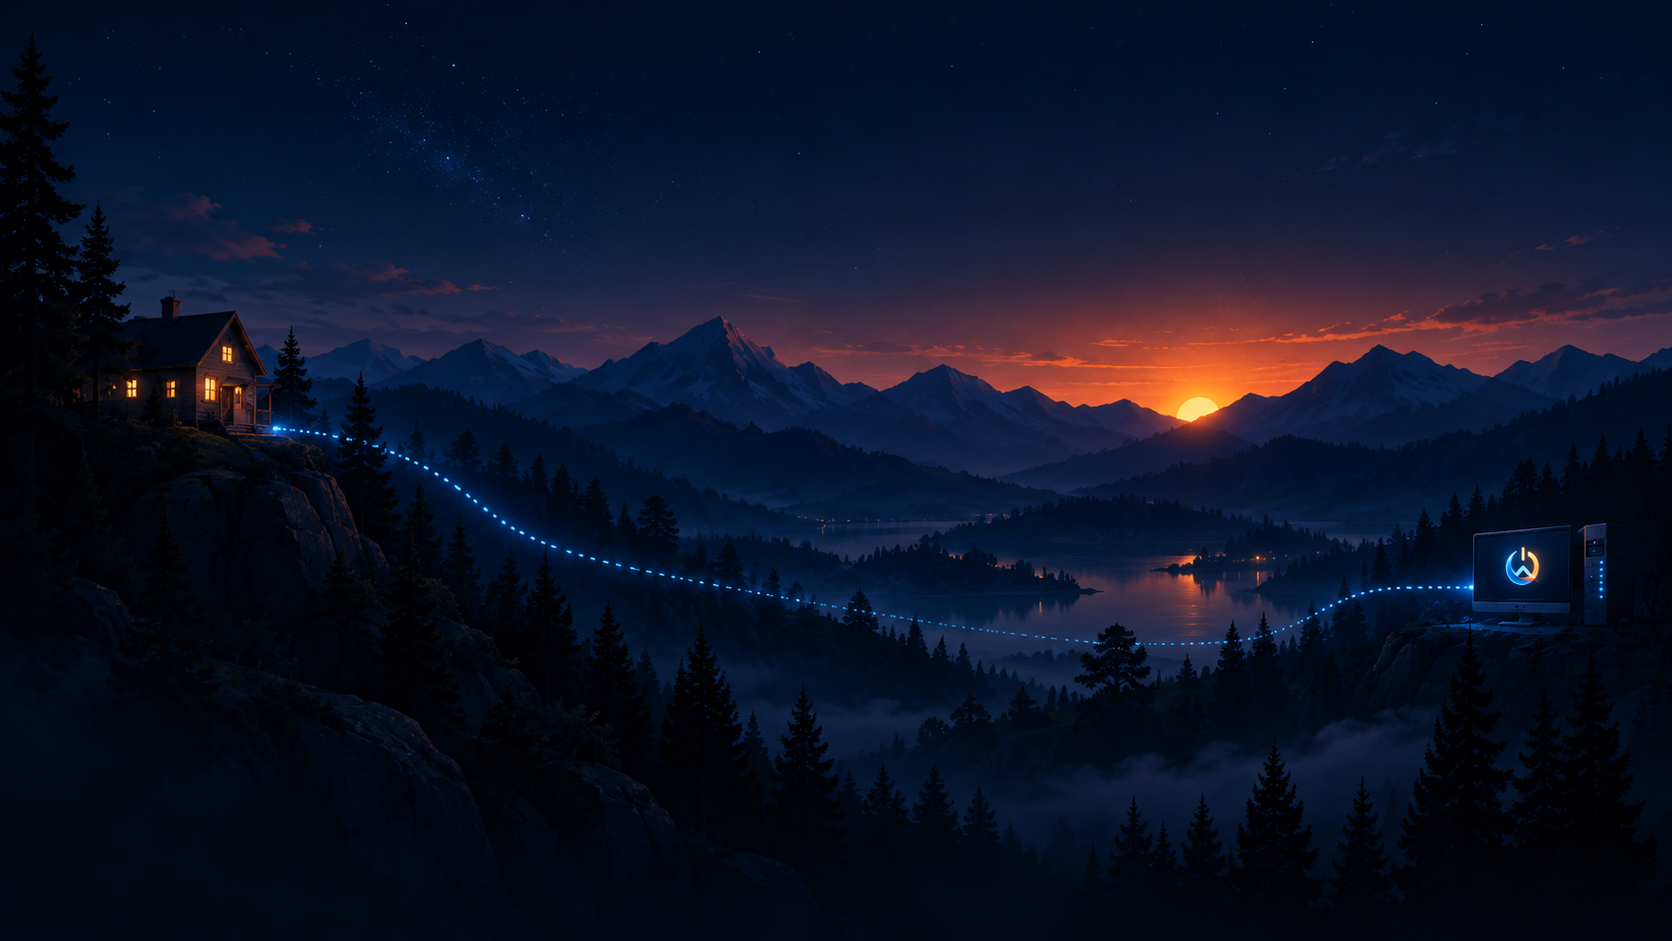
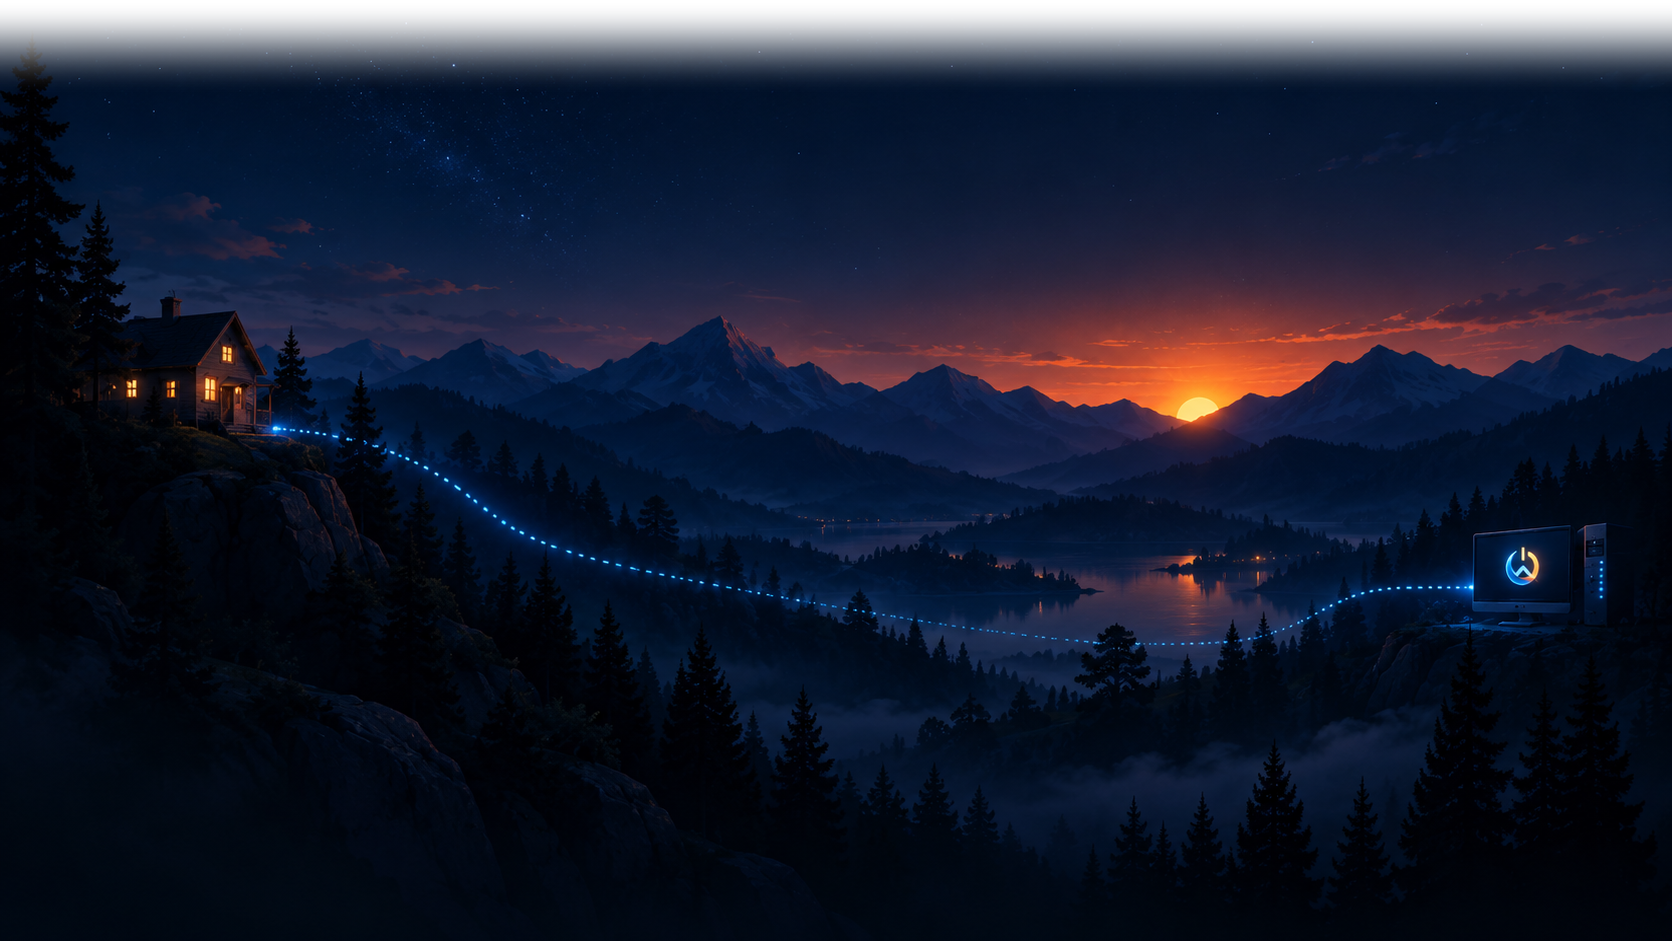
fix(ui): fit branding within Android chrome

Changed region(s): [[0.0, 0.0, 1.0, 0.0925]]

diff --git a/crates/waker-app/src/lib.rs b/crates/waker-app/src/lib.rs
@@ -72,6 +72,8 @@ pub struct WakerApp {
     clipboard_status: Option<Result<(), String>>,
     #[cfg(target_os = "android")]
     android_app: Option<winit::platform::android::activity::AndroidApp>,
+    #[cfg(target_os = "android")]
+    android_system_insets: Option<AndroidSystemInsets>,
 }
 
 impl Default for WakerApp {
@@ -114,6 +116,8 @@ impl WakerApp {
             clipboard_status: None,
             #[cfg(target_os = "android")]
             android_app: None,
+            #[cfg(target_os = "android")]
+            android_system_insets: None,
         }
     }
 
@@ -149,48 +153,49 @@ impl WakerApp {
         let Some(branding) = &self.branding else {
             return;
         };
-        let rect = ui.max_rect();
+
+        // Fill the panel width while preserving the artwork's aspect ratio, then
+        // anchor it to the bottom. Any unused height remains plain panel fill.
+        let panel_rect = ui.max_rect().expand(8.0);
         let image_size = branding.background.size_vec2();
-        let target_size = rect.size();
-        if image_size.x <= 0.0
-            || image_size.y <= 0.0
-            || target_size.x <= 0.0
-            || target_size.y <= 0.0
-        {
+        if image_size.x <= 0.0 || image_size.y <= 0.0 || panel_rect.width() <= 0.0 {
             return;
         }
 
-        let image_aspect = image_size.x / image_size.y;
-        let target_aspect = target_size.x / target_size.y;
-        let uv = if image_aspect > target_aspect {
-            let visible = target_aspect / image_aspect;
-            let margin = (1.0 - visible) / 2.0;
-            egui::Rect::from_min_max(egui::pos2(margin, 0.0), egui::pos2(1.0 - margin, 1.0))
-        } else {
-            let visible = image_aspect / target_aspect;
-            let margin = (1.0 - visible) / 2.0;
-            egui::Rect::from_min_max(egui::pos2(0.0, margin), egui::pos2(1.0, 1.0 - margin))
-        };
+        let scale = panel_rect.width() / image_size.x;
+        let draw_size = image_size * scale;
+        let draw_rect = egui::Rect::from_min_size(
+            egui::pos2(panel_rect.left(), panel_rect.bottom() - draw_size.y),
+            draw_size,
+        );
 
         ui.painter().image(
             branding.background.id(),
-            rect,
-            uv,
+            draw_rect,
+            egui::Rect::from_min_max(egui::Pos2::ZERO, egui::pos2(1.0, 1.0)),
             egui::Color32::from_white_alpha(56),
         );
     }
 
     fn render_branding_logo(&self, ui: &mut egui::Ui) {
+        const LOGO_MARGIN: f32 = 16.0;
         let Some(branding) = &self.branding else {
             ui.heading(APP_NAME);
             return;
         };
         let source_size = branding.logo.size_vec2();
-        let width = ui.available_width().min(300.0);
+        let available_width = (ui.available_width() - 2.0 * LOGO_MARGIN).max(0.0);
+        let width = available_width.min(300.0);
+        if source_size.x <= 0.0 || source_size.y <= 0.0 || width <= 0.0 {
+            return;
+        }
+
         let height = width * source_size.y / source_size.x;
+        ui.add_space(LOGO_MARGIN);
         ui.add(
             egui::Image::from_texture(&branding.logo).fit_to_exact_size(egui::vec2(width, height)),
         );
+        ui.add_space(LOGO_MARGIN);
     }
 
     fn begin_wake(&mut self, ctx: &egui::Context) {
@@ -703,6 +708,100 @@ fn friendly_failure_message(failure: &WakeFailure) -> &'static str {
 }
 
 #[cfg(target_os = "android")]
+#[derive(Clone, Copy, Debug, Default, PartialEq, Eq)]
+struct AndroidSystemInsets {
+    left: i32,
+    top: i32,
+    right: i32,
+    bottom: i32,
+}
+
+#[cfg(target_os = "android")]
+#[allow(unsafe_code)]
+fn android_system_window_insets(
+    app: &winit::platform::android::activity::AndroidApp,
+) -> Result<Option<AndroidSystemInsets>, String> {
+    use jni::{JavaVM, jni_sig, jni_str, objects::JObject};
+
+    let vm = unsafe { JavaVM::from_raw(app.vm_as_ptr().cast()) };
+    let activity_raw = app.activity_as_ptr() as jni::sys::jobject;
+
+    vm.attach_current_thread(|env| -> jni::errors::Result<Option<AndroidSystemInsets>> {
+        let activity = unsafe { env.as_cast_raw::<JObject>(&activity_raw)? };
+        let window = env
+            .call_method(
+                &activity,
+                jni_str!("getWindow"),
+                jni_sig!("()Landroid/view/Window;"),
+                &[],
+            )?
+            .l()?;
+        let decor = env
+            .call_method(
+                &window,
+                jni_str!("getDecorView"),
+                jni_sig!("()Landroid/view/View;"),
+                &[],
+            )?
+            .l()?;
+        let insets = env
+            .call_method(
+                &decor,
+                jni_str!("getRootWindowInsets"),
+                jni_sig!("()Landroid/view/WindowInsets;"),
+                &[],
+            )?
+            .l()?;
+        if insets.is_null() {
+            return Ok(None);
+        }
+
+        // These accessors are available throughout Waker's supported Android range
+        // (API 24+) and remain equivalent to the system-bars inset for this purpose.
+        let left = env
+            .call_method(
+                &insets,
+                jni_str!("getSystemWindowInsetLeft"),
+                jni_sig!("()I"),
+                &[],
+            )?
+            .i()?;
+        let top = env
+            .call_method(
+                &insets,
+                jni_str!("getSystemWindowInsetTop"),
+                jni_sig!("()I"),
+                &[],
+            )?
+            .i()?;
+        let right = env
+            .call_method(
+                &insets,
+                jni_str!("getSystemWindowInsetRight"),
+                jni_sig!("()I"),
+                &[],
+            )?
+            .i()?;
+        let bottom = env
+            .call_method(
+                &insets,
+                jni_str!("getSystemWindowInsetBottom"),
+                jni_sig!("()I"),
+                &[],
+            )?
+            .i()?;
+
+        Ok(Some(AndroidSystemInsets {
+            left,
+            top,
+            right,
+            bottom,
+        }))
+    })
+    .map_err(|error| error.to_string())
+}
+
+#[cfg(target_os = "android")]
 #[allow(unsafe_code)]
 fn android_copy_text(
     app: &winit::platform::android::activity::AndroidApp,
@@ -752,53 +851,125 @@ fn android_copy_text(
 }
 
 impl eframe::App for WakerApp {
+    #[cfg(target_os = "android")]
+    fn raw_input_hook(&mut self, ctx: &egui::Context, raw_input: &mut egui::RawInput) {
+        let Some(android_app) = &self.android_app else {
+            return;
+        };
+        let Ok(Some(insets)) = android_system_window_insets(android_app) else {
+            return;
+        };
+
+        if self.android_system_insets != Some(insets) {
+            info!(
+                left = insets.left,
+                top = insets.top,
+                right = insets.right,
+                bottom = insets.bottom,
+                "Android system-bar insets changed"
+            );
+            self.android_system_insets = Some(insets);
+        }
+
+        let native_pixels_per_point = raw_input
+            .viewports
+            .get(&raw_input.viewport_id)
+            .and_then(|viewport| viewport.native_pixels_per_point)
+            .unwrap_or(1.0);
+        let pixels_per_point = native_pixels_per_point * ctx.zoom_factor();
+        if pixels_per_point <= 0.0 {
+            return;
+        }
+
+        raw_input.safe_area_insets = Some(egui::SafeAreaInsets(egui::epaint::MarginF32 {
+            left: insets.left.max(0) as f32 / pixels_per_point,
+            top: insets.top.max(0) as f32 / pixels_per_point,
+            right: insets.right.max(0) as f32 / pixels_per_point,
+            bottom: insets.bottom.max(0) as f32 / pixels_per_point,
+        }));
+    }
+
     fn ui(&mut self, ui: &mut egui::Ui, _frame: &mut eframe::Frame) {
         self.drain_state_updates();
         self.drain_host_status_update();
         self.drain_ping_update();
         let ctx = ui.ctx().clone();
 
-        egui::CentralPanel::default().show(ui, |ui| {
-            self.paint_branding_background(ui);
-            egui::ScrollArea::vertical().show(ui, |ui| {
-                ui.vertical_centered(|ui| {
-                    self.render_branding_logo(ui);
-                    ui.add_space(8.0);
+        #[cfg(target_os = "android")]
+        {
+            let viewport = ctx.viewport_rect();
+            let content = ctx.content_rect();
+            let fill = ui.visuals().panel_fill;
+            let painter = egui::Painter::new(
+                ctx.clone(),
+                egui::LayerId::new(
+                    egui::Order::Foreground,
+                    egui::Id::new("android-system-chrome-background"),
+                ),
+                viewport,
+            );
+            let system_chrome_rects = [
+                egui::Rect::from_min_max(viewport.min, egui::pos2(viewport.max.x, content.min.y)),
+                egui::Rect::from_min_max(egui::pos2(viewport.min.x, content.max.y), viewport.max),
+                egui::Rect::from_min_max(
+                    egui::pos2(viewport.min.x, content.min.y),
+                    egui::pos2(content.min.x, content.max.y),
+                ),
+                egui::Rect::from_min_max(
+                    egui::pos2(content.max.x, content.min.y),
+                    egui::pos2(viewport.max.x, content.max.y),
+                ),
+            ];
+            for rect in system_chrome_rects {
+                if rect.width() > 0.0 && rect.height() > 0.0 {
+                    painter.rect_filled(rect, 0.0, fill);
+                }
+            }
+        }
 
-                    let wake_button = egui::Button::new("Wake").min_size(egui::vec2(160.0, 52.0));
-                    if ui
-                        .add_enabled(
-                            !self.busy
-                                && self.status_check_rx.is_none()
-                                && self.ping_check_rx.is_none(),
-                            wake_button,
-                        )
-                        .clicked()
-                    {
-                        self.begin_wake(&ctx);
-                    }
+        ui.scope_builder(egui::UiBuilder::new().max_rect(ctx.content_rect()), |ui| {
+            egui::CentralPanel::default().show(ui, |ui| {
+                self.paint_branding_background(ui);
+                egui::ScrollArea::vertical().show(ui, |ui| {
+                    ui.vertical_centered(|ui| {
+                        self.render_branding_logo(ui);
 
-                    ui.add_space(6.0);
-                    self.render_status(ui);
-                });
+                        let wake_button =
+                            egui::Button::new("Wake").min_size(egui::vec2(160.0, 52.0));
+                        if ui
+                            .add_enabled(
+                                !self.busy
+                                    && self.status_check_rx.is_none()
+                                    && self.ping_check_rx.is_none(),
+                                wake_button,
+                            )
+                            .clicked()
+                        {
+                            self.begin_wake(&ctx);
+                        }
 
-                ui.add_space(16.0);
-                ui.separator();
-                ui.collapsing("Development settings", |ui| {
-                    ui.label("WireGuard profile");
-                    ui.text_edit_singleline(&mut self.config_path);
-
-                    ui.horizontal(|ui| {
-                        ui.label("FRITZ!Box");
-                        ui.text_edit_singleline(&mut self.fritz_ip);
+                        ui.add_space(6.0);
+                        self.render_status(ui);
                     });
-                    ui.horizontal(|ui| {
-                        ui.label("PC MAC");
-                        ui.text_edit_singleline(&mut self.pc_mac);
+
+                    ui.add_space(16.0);
+                    ui.separator();
+                    ui.collapsing("Development settings", |ui| {
+                        ui.label("WireGuard profile");
+                        ui.text_edit_singleline(&mut self.config_path);
+
+                        ui.horizontal(|ui| {
+                            ui.label("FRITZ!Box");
+                            ui.text_edit_singleline(&mut self.fritz_ip);
+                        });
+                        ui.horizontal(|ui| {
+                            ui.label("PC MAC");
+                            ui.text_edit_singleline(&mut self.pc_mac);
+                        });
                     });
+                    ui.separator();
+                    self.render_diagnostics(ui, &ctx);
                 });
-                ui.separator();
-                self.render_diagnostics(ui, &ctx);
             });
         });
     }
